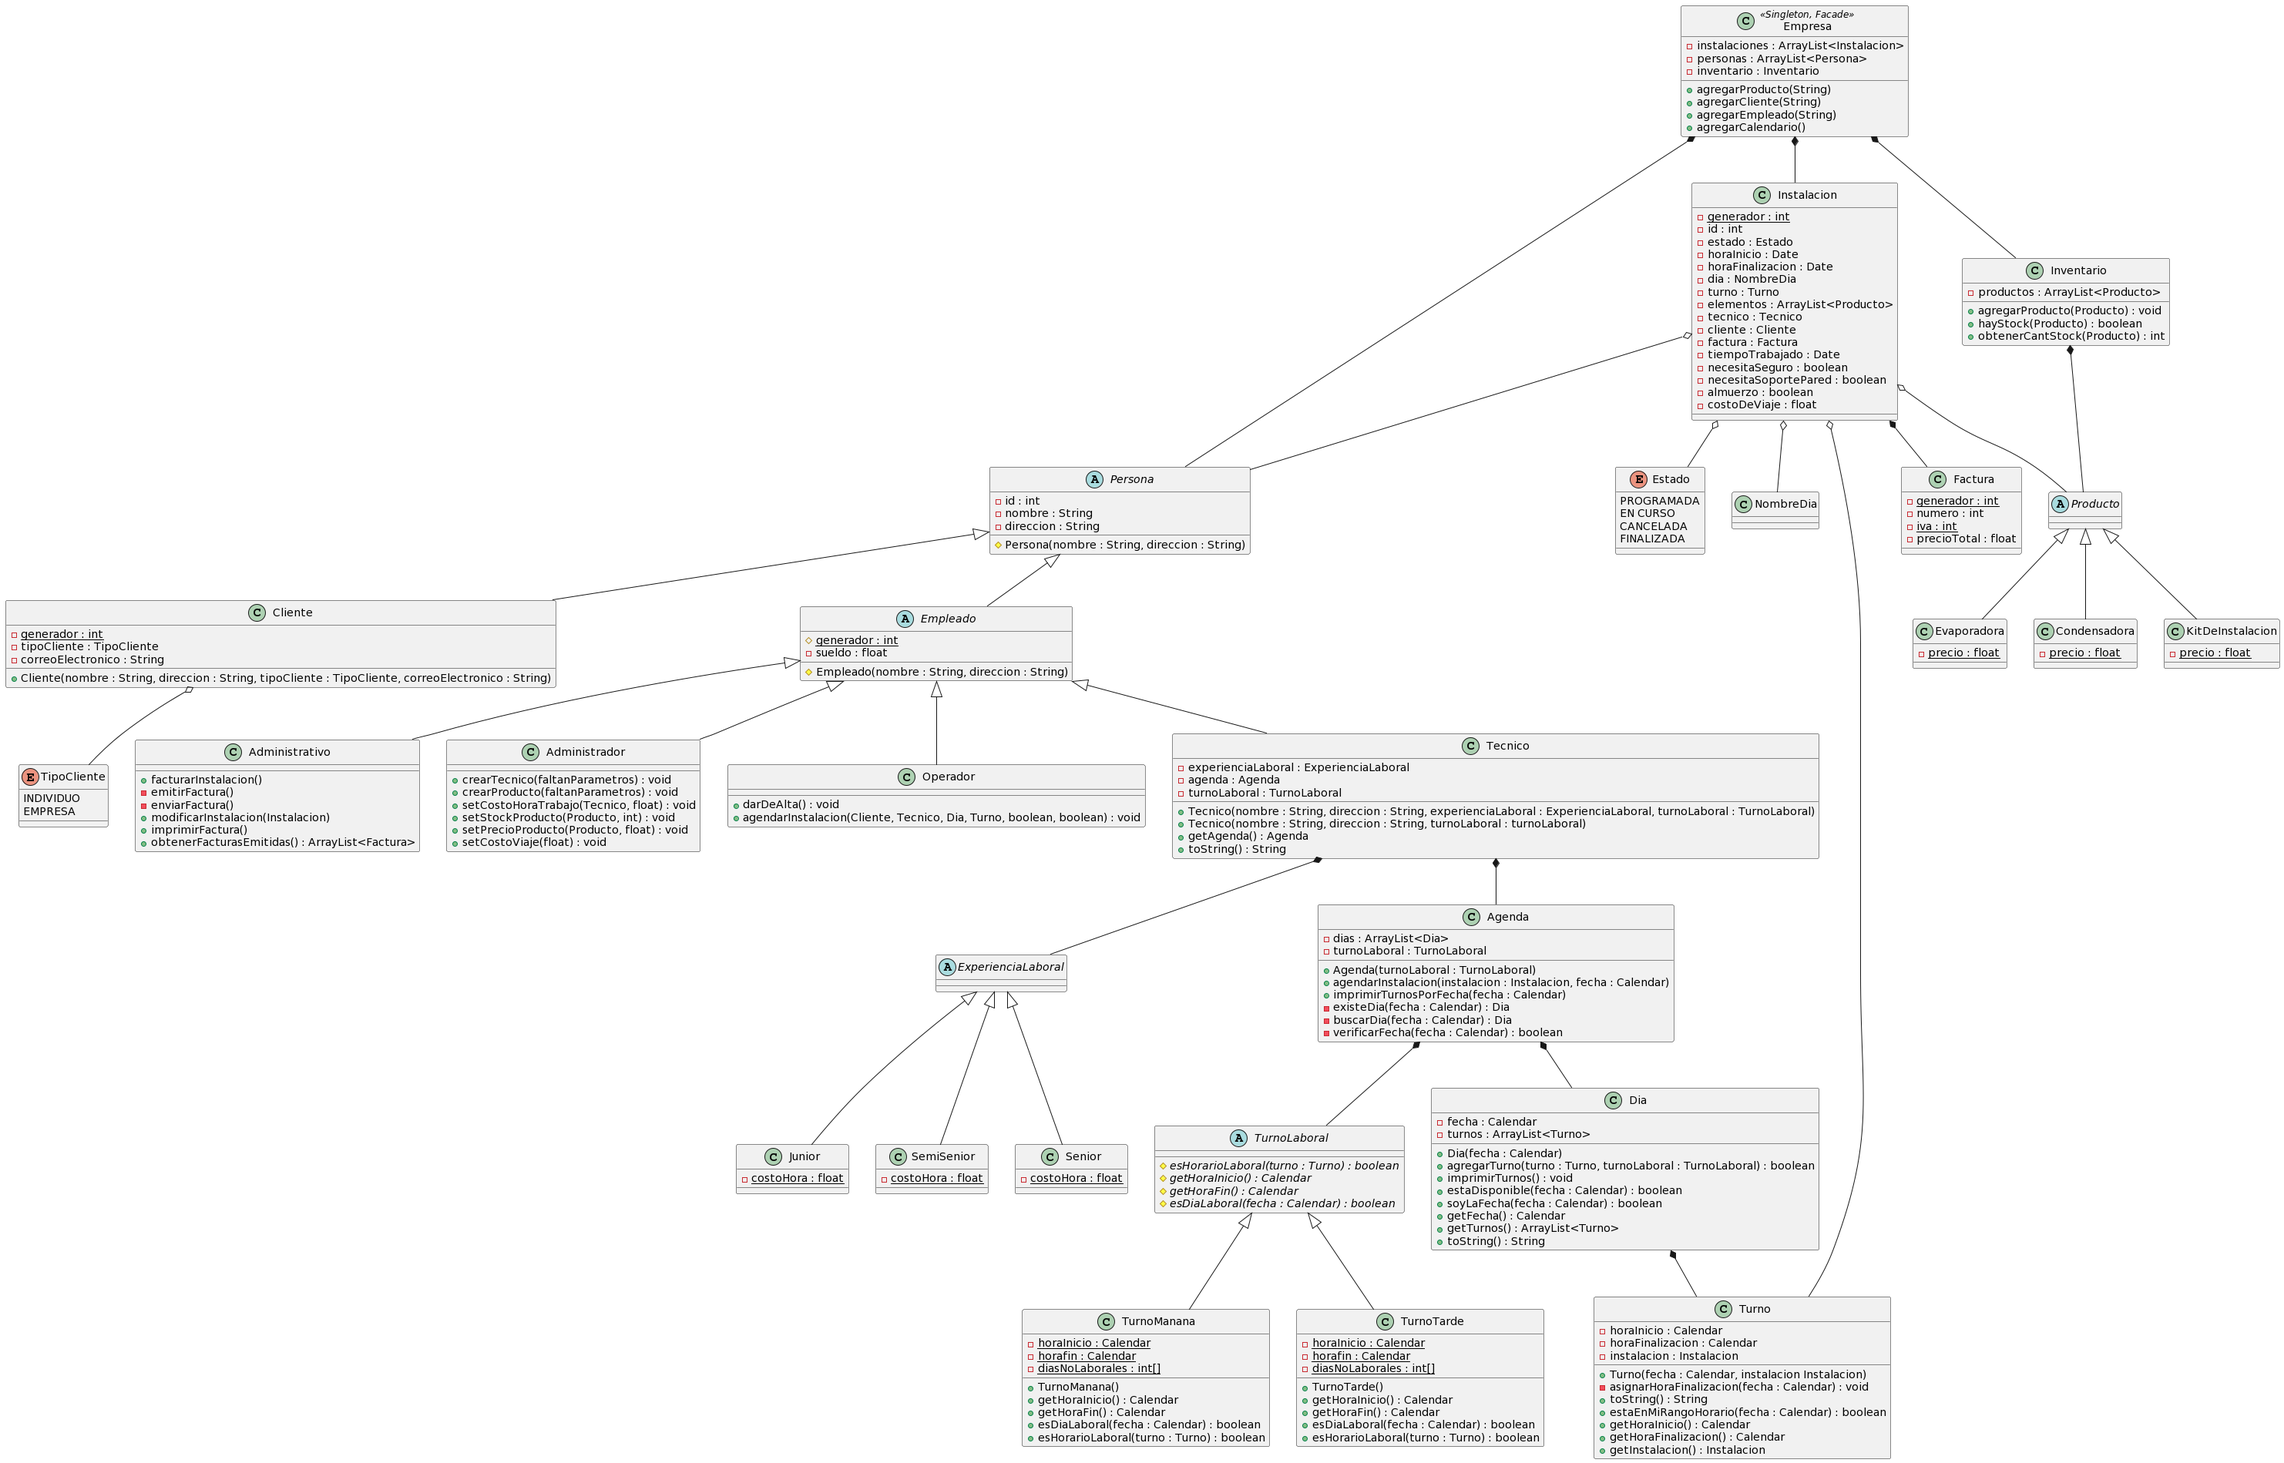
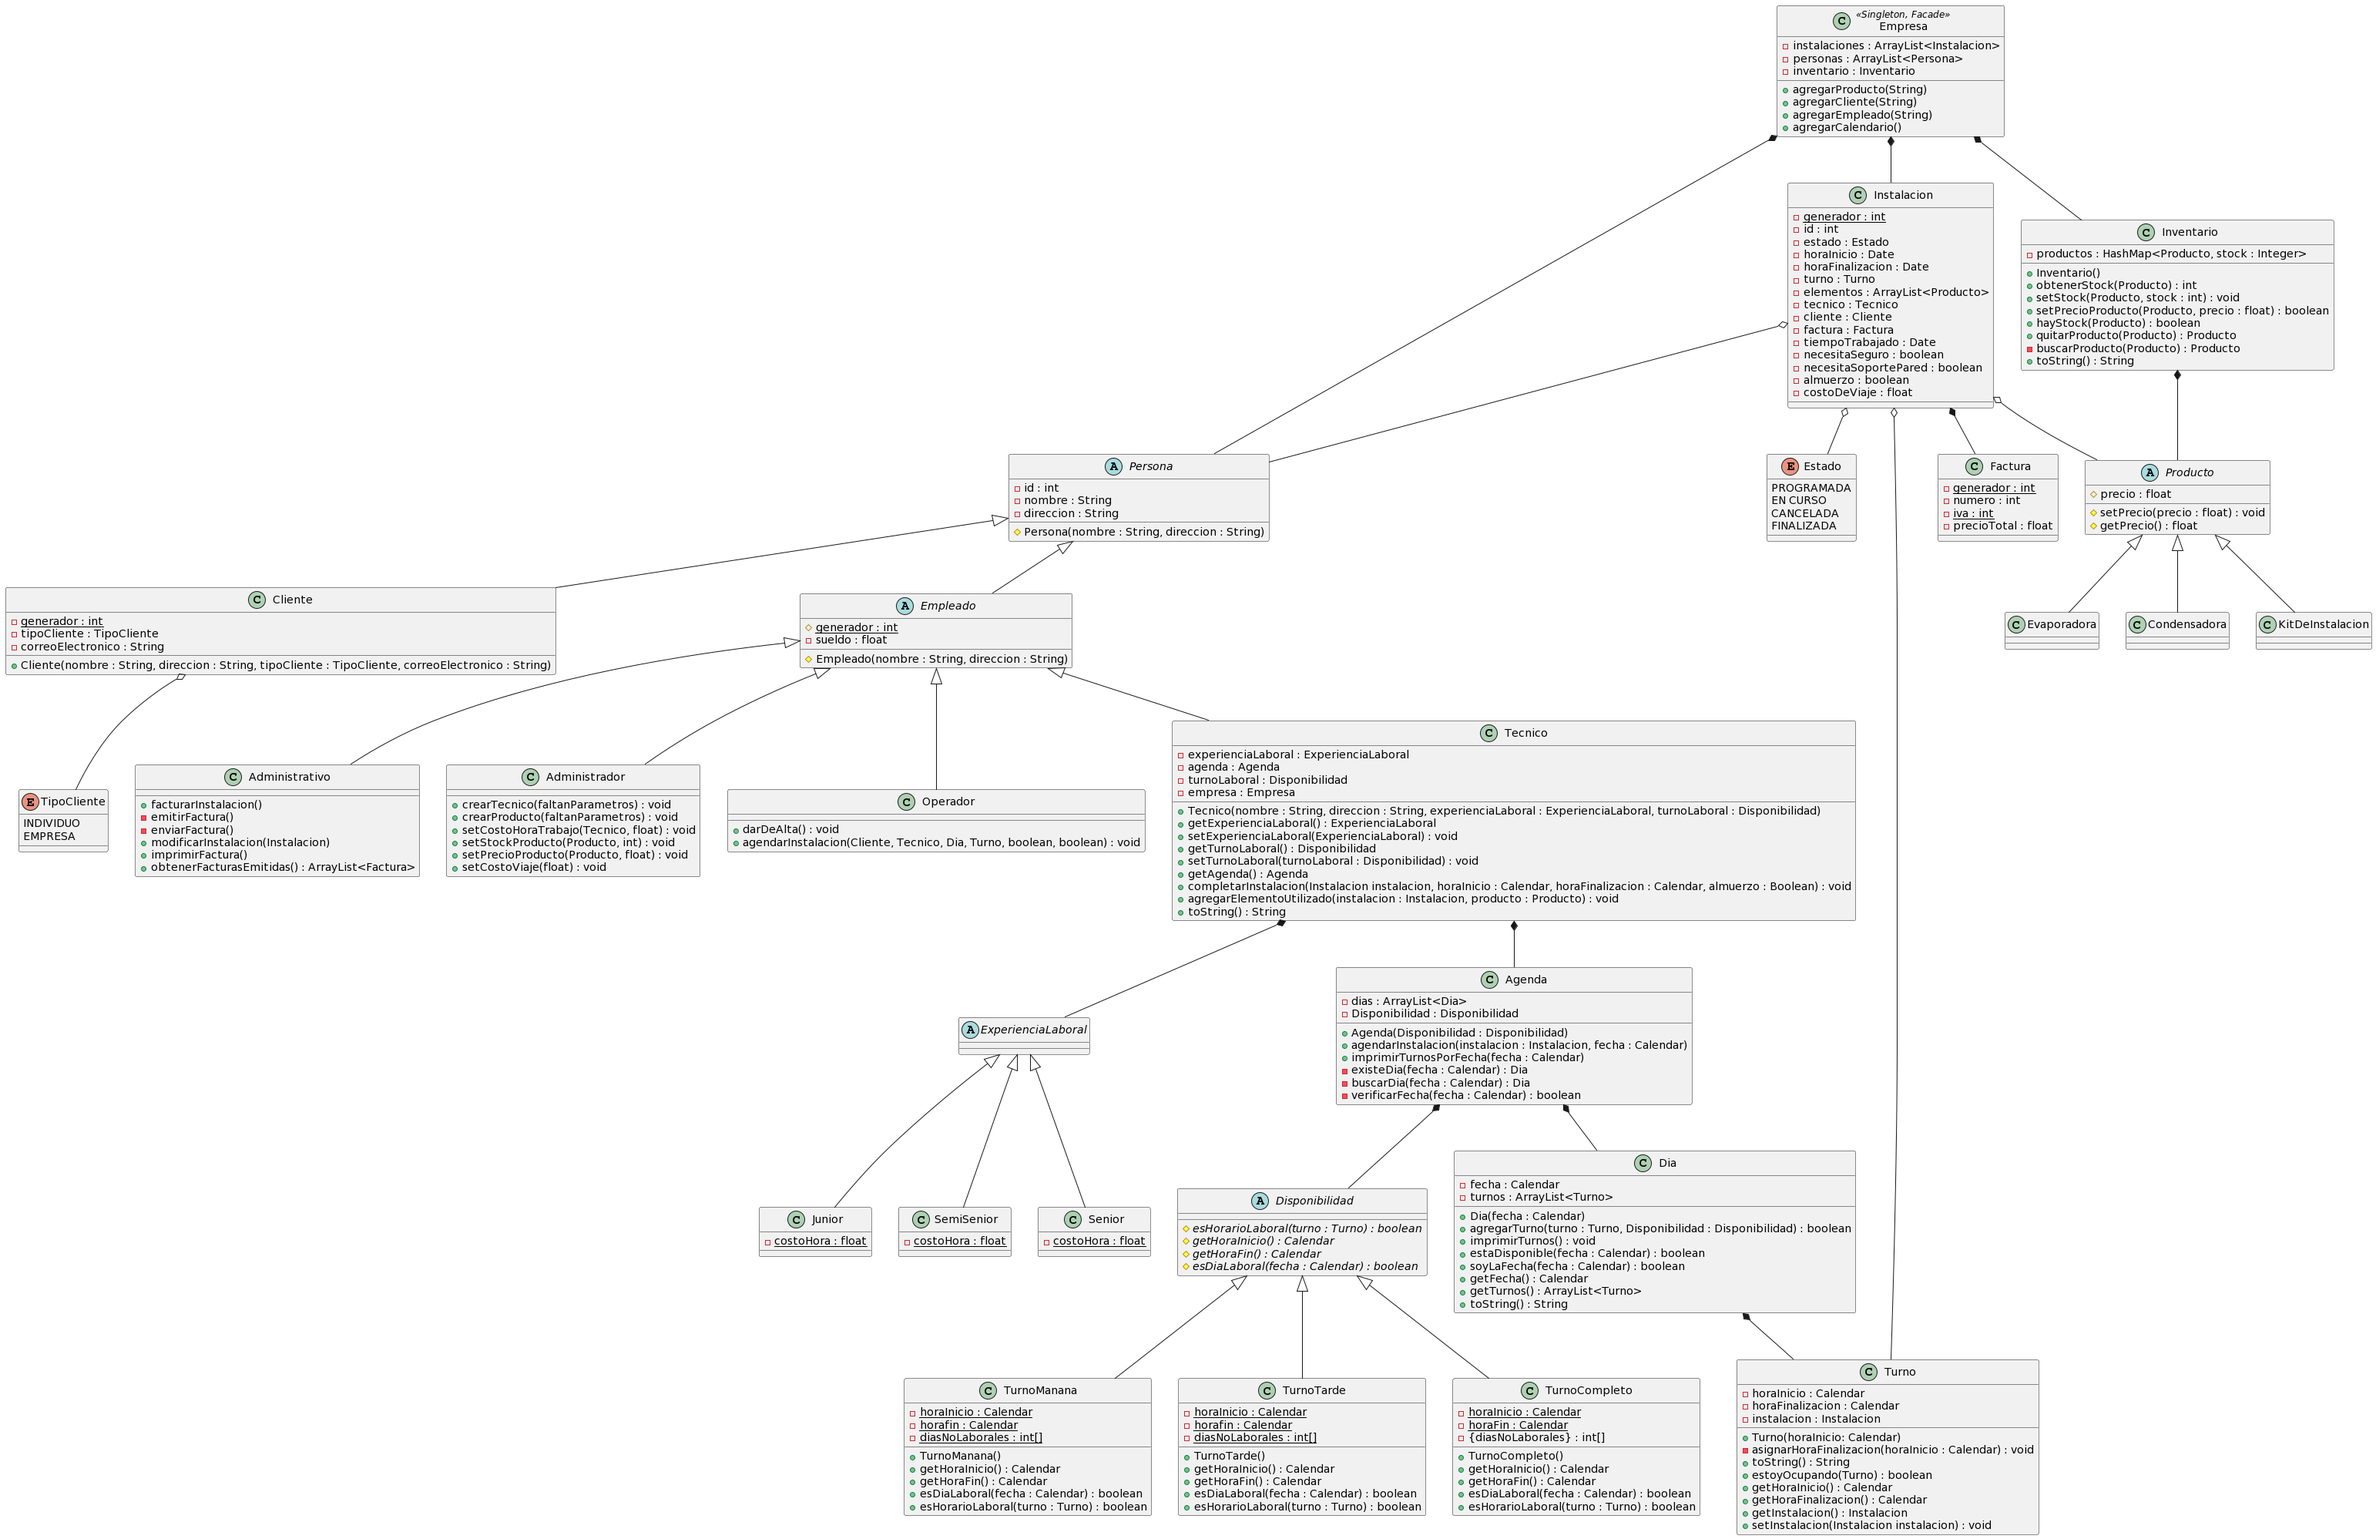
Algunas actualizaciones del Diagrama de Clases

diff --git a/Codigo/src/modelos/Tecnico.java b/Codigo/src/modelos/Tecnico.java
@@ -9,7 +9,7 @@ public class Tecnico extends Empleado {
 	private ExperienciaLaboral experienciaLaboral;
 	private Agenda agenda;
 	private Disponibilidad turnoLaboral;
-	Empresa empresa = Empresa.getInstance();
+	private Empresa empresa = Empresa.getInstance();
 
 	//Methods
 	
